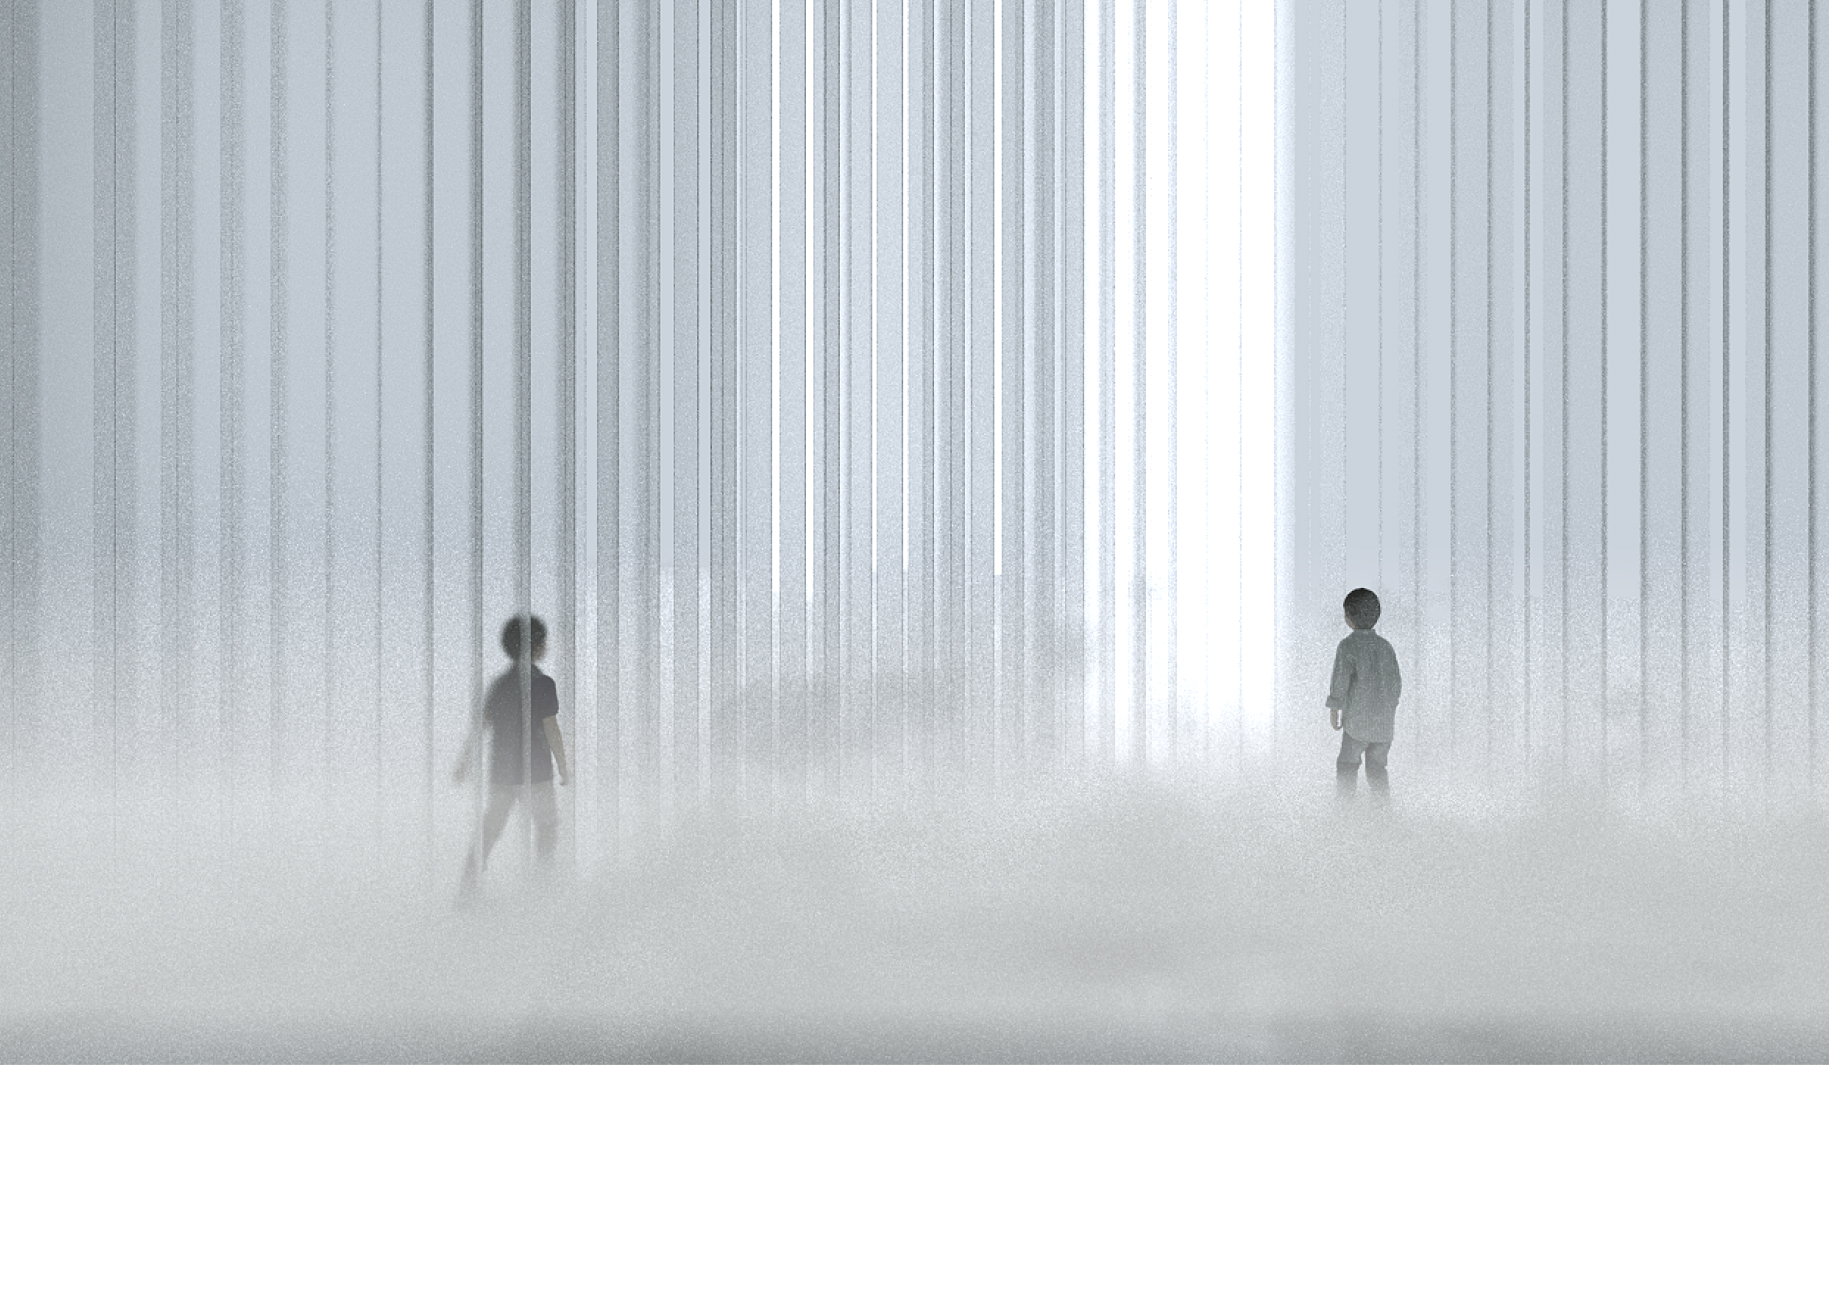
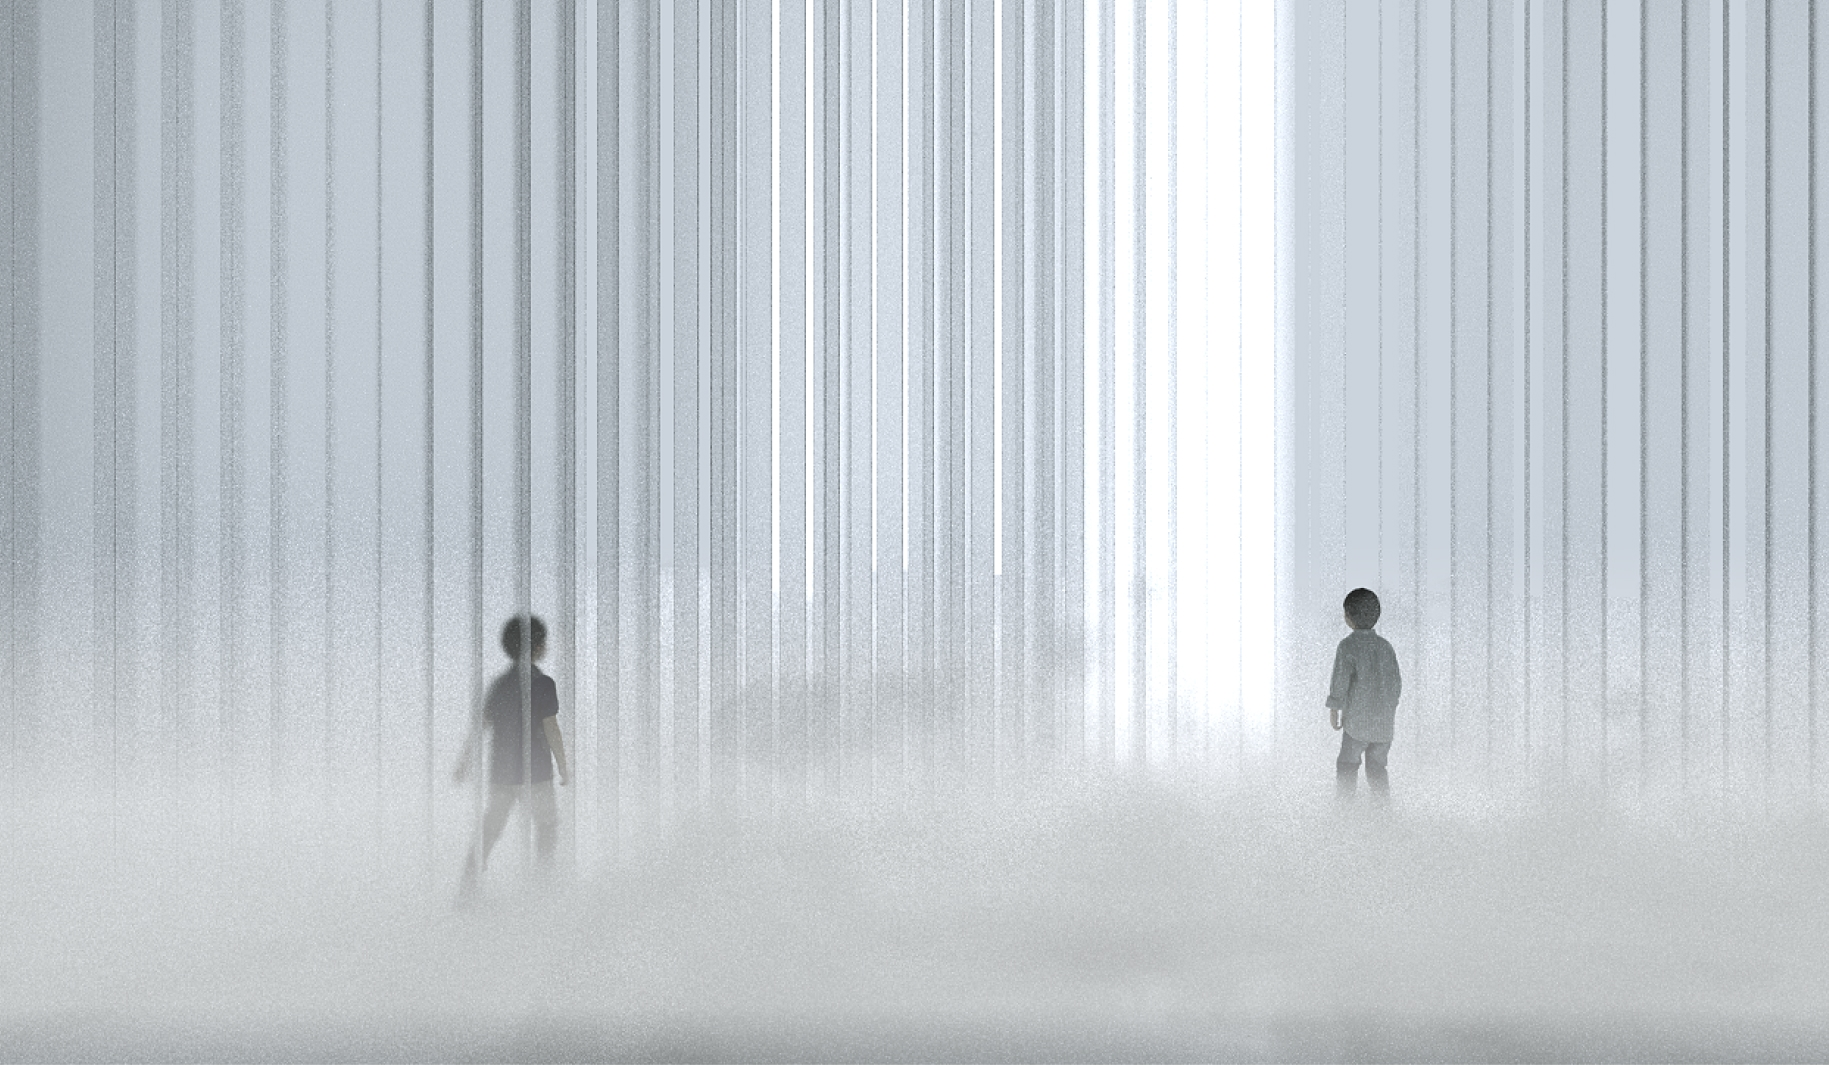
Hero section on the Works page

Changed region(s): [[0.0, 0.4338, 1.0, 1.0], [0.9973, 0.7127, 1.0, 0.7437]]

diff --git a/src/routes/Works/index.jsx b/src/routes/Works/index.jsx
@@ -1,0 +1,33 @@
+import React from 'react'
+
+import { ReactComponent as LogoLarge } from 'assets/repliqua-logo-large.svg'
+
+import HeroImage from 'assets/images/hero-image.jpg'
+
+import styles from './Works.module.scss'
+
+const Works = () => {
+  return (
+    <article>
+      <div className={styles.heroSection}>
+        <img
+          src={HeroImage}
+          alt='Some title text with sophisticated text goes here'
+        />
+        <LogoLarge />
+        <div className={styles.content}>
+          <h1>Some title text with sophisticated text goes here</h1>
+          <p>
+            Lorem ipsum dolor sit amet, consectetuer adipiscing elit. Aenean
+            commodo ligula eget dolor. Aenean massa. Cum sociis natoque
+            penatibus et magnis dis parturient montes, nascetur ridiculus mus.
+            Donec quam felis, ultricies nec, pellentesque eu, pretium quis, sem.
+            Nulla consequat massa quis enim. Donec pede justo, fringilla vel,{' '}
+          </p>
+        </div>
+      </div>
+    </article>
+  )
+}
+
+export default Works

diff --git a/src/routes/Works/Works.module.scss b/src/routes/Works/Works.module.scss
@@ -1,0 +1,44 @@
+@import 'src/styles/index.scss';
+
+.heroSection {
+  height: calc(100vh - $header-height);
+  position: relative;
+  display: grid;
+
+  img {
+    width: 100%;
+    height: 100%;
+    z-index: map-get($z-index, hidden);
+    position: absolute;
+    object-fit: cover;
+  }
+
+  svg {
+    width: 26.5625rem;
+    height: 26.5625rem;
+    position: absolute;
+    margin: auto;
+    top: 22%;
+    right: 0;
+    left: 0;
+  }
+}
+
+.content {
+  display: grid;
+  width: 42.5rem;
+  row-gap: 1.5rem;
+  margin: auto 15% 9.375rem auto;
+
+  h1 {
+    font-size: 2.25rem;
+    font-weight: $bold;
+    max-width: 75%;
+  }
+
+  p {
+    line-height: 1.5;
+    font-weight: $light;
+    font-size: 1.125rem;
+  }
+}

diff --git a/src/components/Header/index.jsx b/src/components/Header/index.jsx
@@ -2,7 +2,7 @@ import React from 'react'
 
 import { useLocation } from 'react-router-dom'
 
-import { ReactComponent as Logo } from 'assets/logo-repliqua.svg'
+import { ReactComponent as LogoSmall } from 'assets/repliqua-logo-small.svg'
 
 import styles from './Header.module.scss'
 
@@ -24,7 +24,7 @@ const Header = () => {
   return (
     <header className={styles.header}>
       <a href='/' className={styles.logo}>
-        <Logo />
+        <LogoSmall />
       </a>
       <nav>
         <ul className={styles.navigation}>

diff --git a/src/components/Header/Header.module.scss b/src/components/Header/Header.module.scss
@@ -1,8 +1,8 @@
 @import 'src/styles/index.scss';
 
 .header {
+  height: $header-height;
   padding: 0 5.6875rem;
-  height: 4.5625rem;
   display: grid;
   align-items: center;
   align-items: center;
@@ -12,6 +12,10 @@
 
 .logo svg {
   width: 6.5rem;
+
+  &:hover g {
+    animation: fade-out-down forwards;
+  }
 }
 
 .navigation {

diff --git a/src/styles/_normalize.scss b/src/styles/_normalize.scss
@@ -4,6 +4,7 @@ html {
   body {
     margin: 0;
     height: 100%;
+    color: $green;
     min-width: 320px;
     overflow-x: hidden;
     font-family: $lato;

diff --git a/src/components/Footer/Footer.module.scss b/src/components/Footer/Footer.module.scss
@@ -7,6 +7,7 @@
 
   div {
     display: grid;
+    position: relative;
     align-items: center;
     justify-content: right;
     background-color: $green;

diff --git a/src/styles/_variables.scss b/src/styles/_variables.scss
@@ -1,3 +1,10 @@
+$header-height: 4.5625rem;
+
+$z-index: (
+  hidden: -1,
+  default: 1,
+);
+
 // main-colors
 $green: #2f464c;
 $purple: #cec8db;

diff --git a/src/styles/_animate.scss b/src/styles/_animate.scss
@@ -1,0 +1,9 @@
+@keyframes fade-out-down {
+  0% {
+    transform: translateY(0);
+  }
+
+  100% {
+    transform: translateY(0.75rem);
+  }
+}

diff --git a/src/styles/index.scss b/src/styles/index.scss
@@ -1,2 +1,3 @@
+@import './animate';
 @import './variables';
 @import './normalize';
